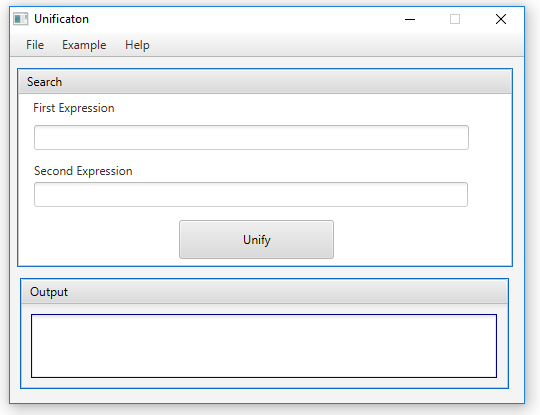
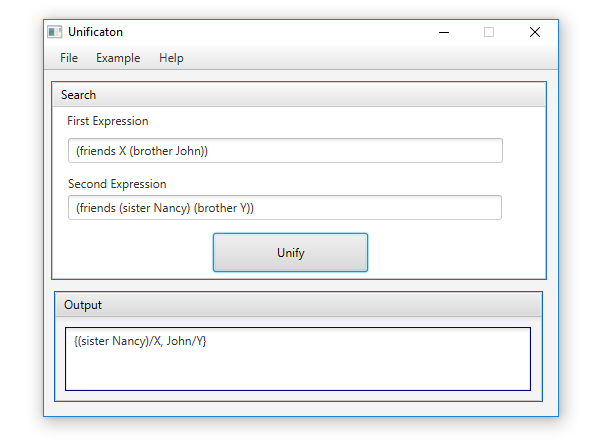
added screenshot

Changed region(s): [[0.0, 0.0, 1.0, 1.0], [0.8296, 0.4337, 0.8593, 0.4627]]

diff --git a/README.md b/README.md
@@ -20,5 +20,6 @@ Expression 1:
  
  
  
- 
+   
+ ![ScreenShot](https://github.com/darshanz/pc-unification/blob/master/src/main/resources/unification.png)
  
